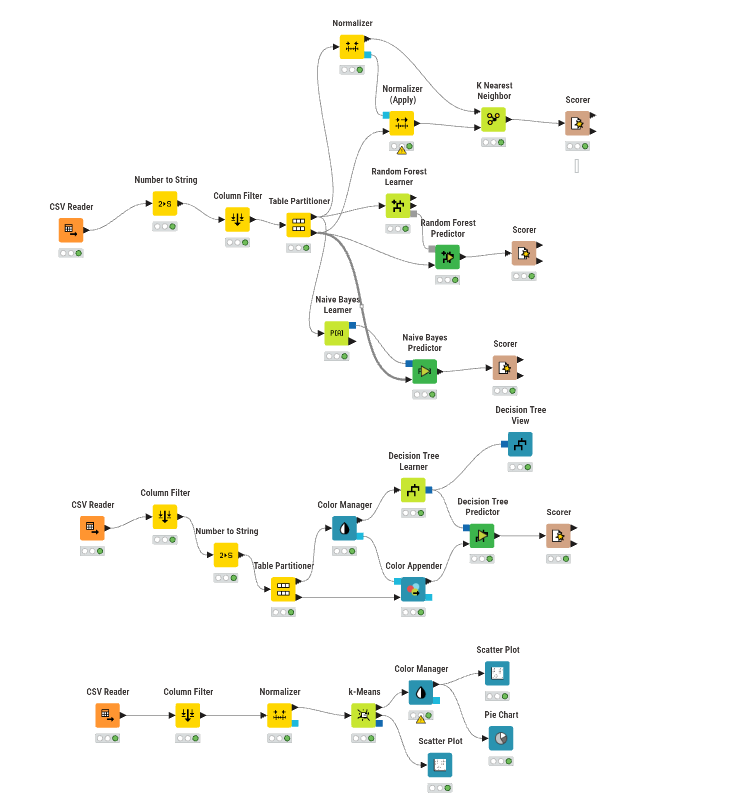
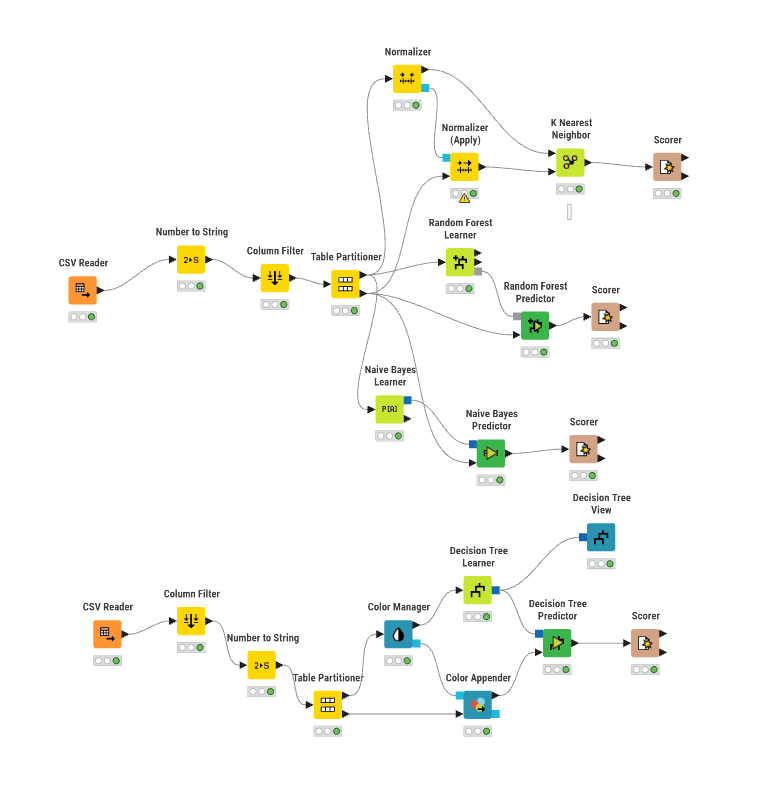
Update documentation

diff --git a/notebooks.html b/notebooks.html
@@ -446,7 +446,7 @@ For example, here’s some sample Matplotlib code:</p>
 </div>
 </div>
 <div class="cell_output docutils container">
-<div class="output text_plain highlight-myst-ansi notranslate"><div class="highlight"><pre><span></span>&lt;contextlib.ExitStack at 0x1cb23ef24c0&gt;
+<div class="output text_plain highlight-myst-ansi notranslate"><div class="highlight"><pre><span></span>&lt;contextlib.ExitStack at 0x1e0a6f75d60&gt;
 </pre></div>
 </div>
 </div>